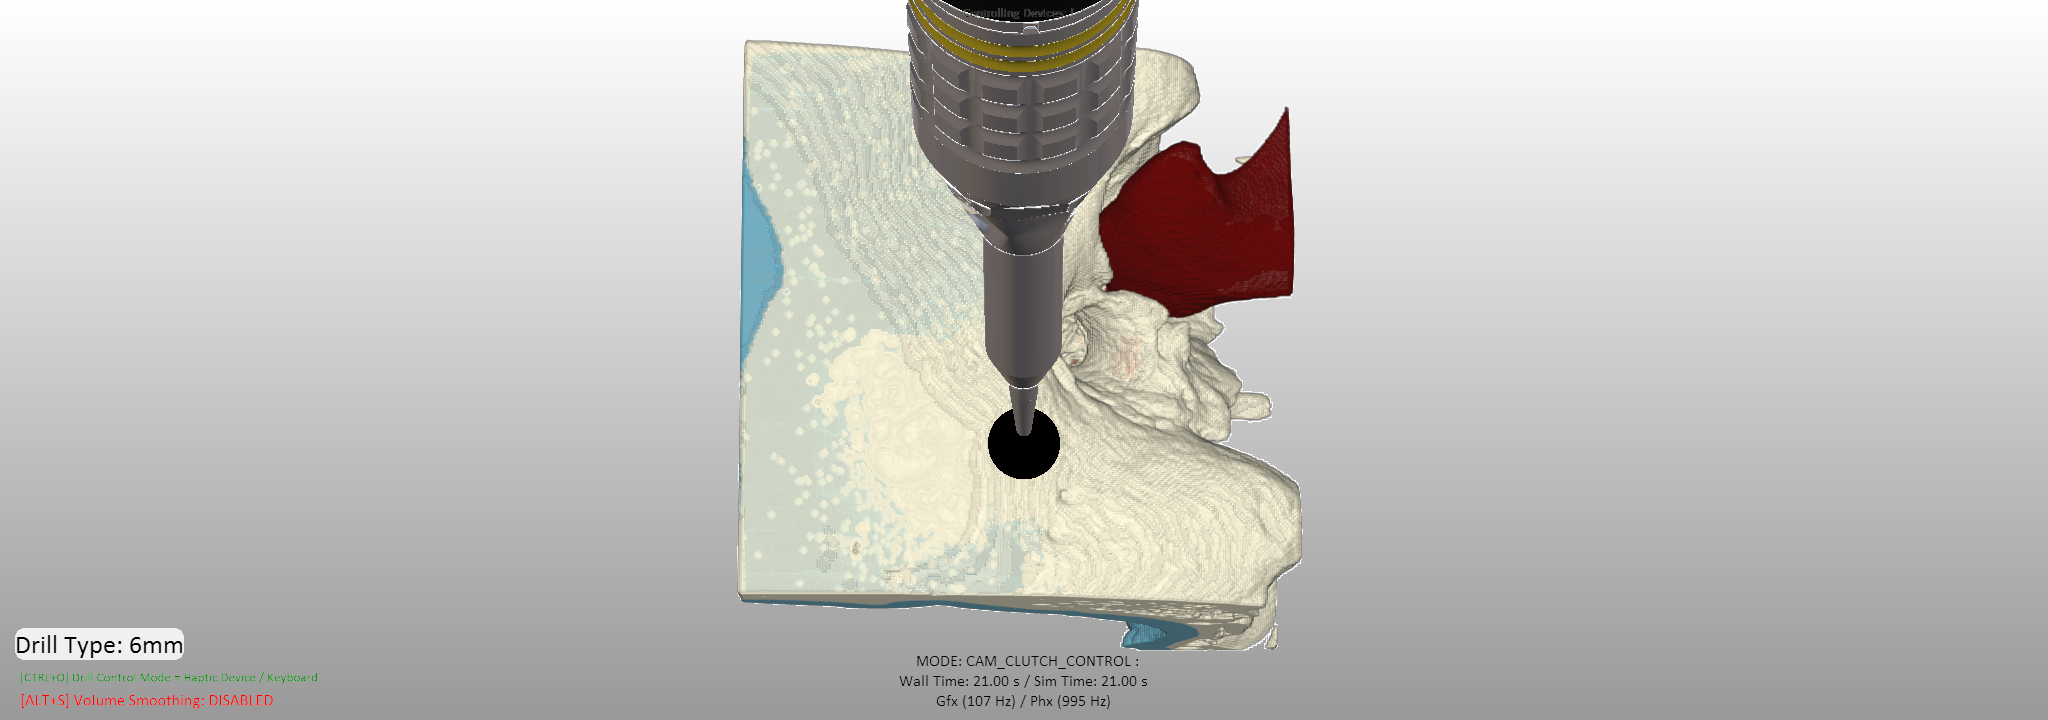
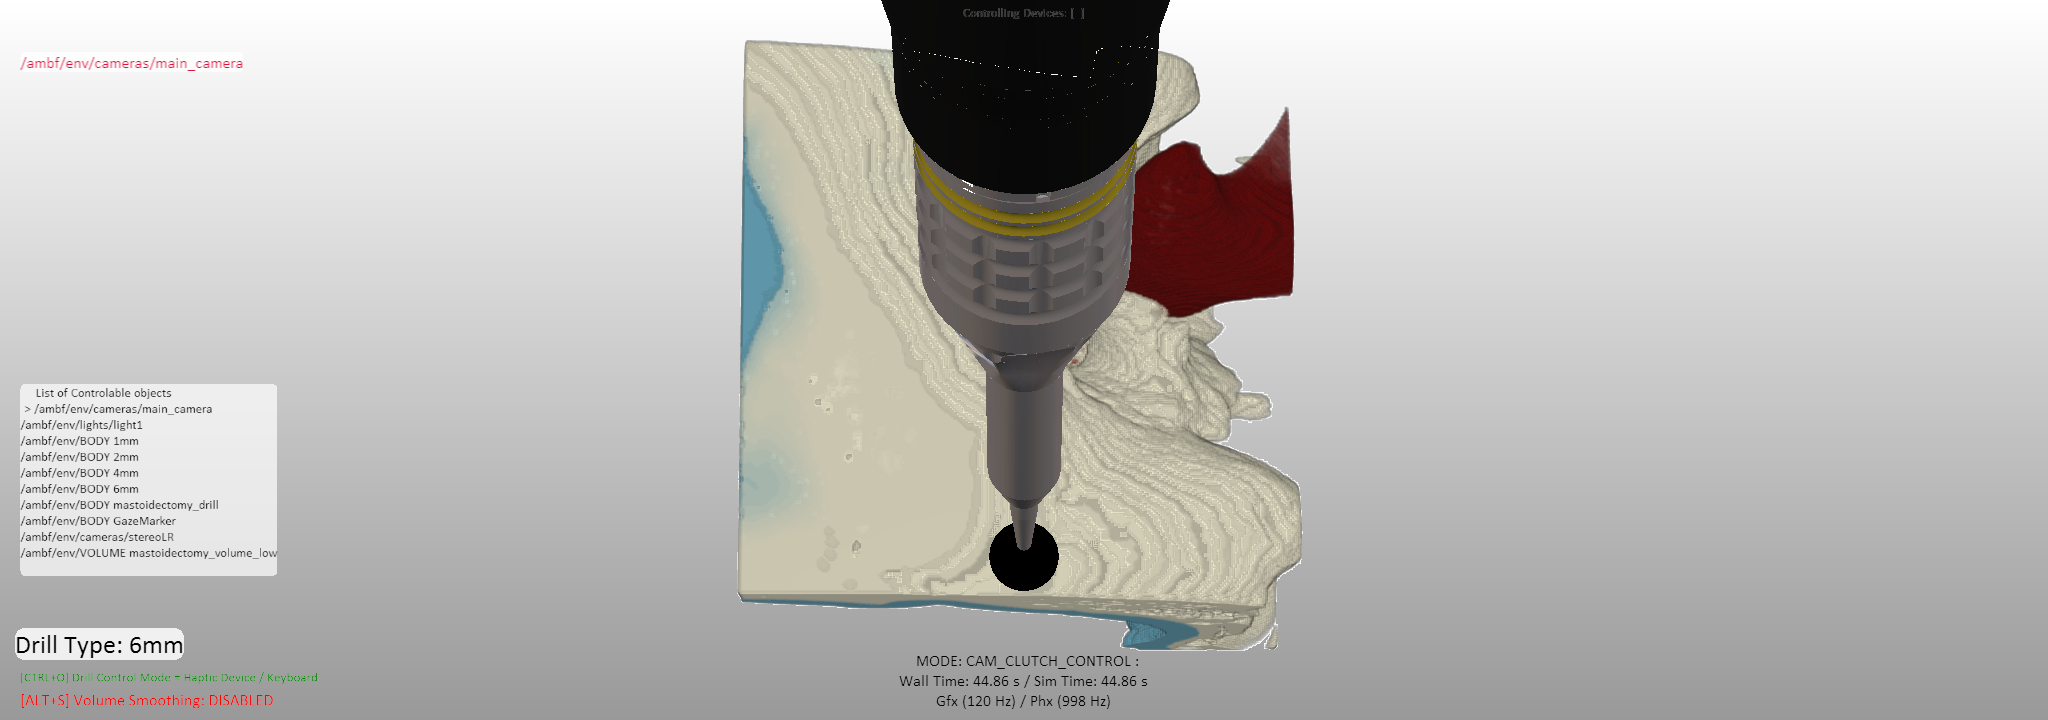
Improvements to data recording, skip synchroniztaion if only one topic

diff --git a/scripts/data_record_updated.py b/scripts/data_record_updated.py
@@ -384,51 +384,118 @@ def create_and_store_dataset(group, key, data, compression="gzip"):
         log.log(logging.INFO, (key, group[key].shape))
 
 
+# def write_voxel_data(collisions):
+#     """
+#     Process and write voxel data to HDF5.
+    
+#     :param collisions: Dictionary containing voxel-related data.
+#     :return: None
+#     """
+#     voxel_idx, voxel_color = [], []
+
+#     try:
+#         assert len(collisions["voxel_color"]) == len(collisions["voxel_removed"]) == len(collisions["voxel_time_stamp"]), \
+#             "Dimension mismatch in voxel data"
+#     except AssertionError:
+#         print("Voxel data dimension mismatch:", collisions)
+#         raise
+
+#     for idx in range(len(collisions["voxel_time_stamp"])):
+#         num_removed = collisions["voxel_removed"][idx].shape[0]
+#         if num_removed > 0:
+#             idx_column = np.ones((num_removed, 1)) * idx
+#             voxel_idx.append(np.hstack((idx_column, collisions["voxel_removed"][idx])))
+#             voxel_color.append(np.hstack((idx_column, collisions["voxel_color"][idx])))
+
+#     # Combine the voxel data and write it to the HDF5 file
+#     try:
+#         voxel_idx = np.vstack(voxel_idx)
+#         voxel_color = np.vstack(voxel_color)
+#         voxel_data = {
+#             "voxel_time_stamp": collisions["voxel_time_stamp"],
+#             "voxel_removed": voxel_idx,
+#             "voxel_color": voxel_color,
+#         }
+#         # Create voxels_removed group under physics_data/intermittent_data
+#         voxels_group = f["physics_data/intermittent_data"].create_group("voxels_removed")
+#         for key, value in voxel_data.items():
+#             print(f"key {key}")
+#             voxels_group.create_dataset(key, data=value, compression="gzip")
+#             log.log(logging.INFO, (key, voxels_group[key].shape))
+#             collisions[key] = []  # Reset to free memory
+#         voxels_group.create_dataset("README", data = "voxels_removed contains a group of voxels (Gv) removed. \n"
+#                                            "The voxel_time_stamp contains the time that the Gv was removed. The voxels_removed contains the voxels that comprise the Gv. \n"
+#                                            "The voxel_color contains the color of voxels that comprise the Gv. \n")
+#     except Exception as e:
+#         print("INFO! No voxels removed in this batch due to exception:", str(e))
+
 def write_voxel_data(collisions):
     """
-    Process and write voxel data to HDF5.
+    Process and write voxel data to an HDF5 file in a thread-safe manner.
+
+    This function collects voxel removal and color information from a batch
+    of collisions, verifies data consistency, and writes it under 
+    'physics_data/intermittent_data/voxels_removed' in the HDF5 file. 
+    Thread safety is ensured using a global lock `voxel_data_lock`.
+
+    :param collisions: Dictionary containing voxel-related data with keys:
+        - "voxel_removed": List of numpy arrays of removed voxel coordinates.
+        - "voxel_color": List of numpy arrays of voxel colors corresponding to removed voxels.
+        - "voxel_time_stamp": List of timestamps for when voxels were removed.
+    :return: None. Data is written directly to the HDF5 file.
     
-    :param collisions: Dictionary containing voxel-related data.
-    :return: None
+    Notes:
+        - If the dimension of any of the voxel arrays does not match, the batch is skipped.
+        - After writing, the original voxel lists in `collisions` are cleared to free memory.
+        - If no voxels are removed in the batch, nothing is written.
     """
-    voxel_idx, voxel_color = [], []
-
+    global voxel_data_lock
+    voxel_data_lock.acquire()
     try:
-        assert len(collisions["voxel_color"]) == len(collisions["voxel_removed"]) == len(collisions["voxel_time_stamp"]), \
-            "Dimension mismatch in voxel data"
-    except AssertionError:
-        print("Voxel data dimension mismatch:", collisions)
-        raise
+        voxel_idx, voxel_color = [], []
 
-    for idx in range(len(collisions["voxel_time_stamp"])):
-        num_removed = collisions["voxel_removed"][idx].shape[0]
-        if num_removed > 0:
-            idx_column = np.ones((num_removed, 1)) * idx
-            voxel_idx.append(np.hstack((idx_column, collisions["voxel_removed"][idx])))
-            voxel_color.append(np.hstack((idx_column, collisions["voxel_color"][idx])))
+        # Ensure all required keys exist in the collisions dictionary
+        if not all(k in collisions for k in ["voxel_removed", "voxel_color", "voxel_time_stamp"]):
+            return
 
-    # Combine the voxel data and write it to the HDF5 file
-    try:
-        voxel_idx = np.vstack(voxel_idx)
-        voxel_color = np.vstack(voxel_color)
-        voxel_data = {
-            "voxel_time_stamp": collisions["voxel_time_stamp"],
-            "voxel_removed": voxel_idx,
-            "voxel_color": voxel_color,
-        }
-        # Create voxels_removed group under physics_data/intermittent_data
-        voxels_group = f["physics_data/intermittent_data"].create_group("voxels_removed")
-        for key, value in voxel_data.items():
-            print(f"key {key}")
-            voxels_group.create_dataset(key, data=value, compression="gzip")
-            log.log(logging.INFO, (key, voxels_group[key].shape))
-            collisions[key] = []  # Reset to free memory
-        voxels_group.create_dataset("README", data = "voxels_removed contains a group of voxels (Gv) removed. \n"
-                                           "The voxel_time_stamp contains the time that the Gv was removed. The voxels_removed contains the voxels that comprise the Gv. \n"
-                                           "The voxel_color contains the color of voxels that comprise the Gv. \n")
-    except Exception as e:
-        print("INFO! No voxels removed in this batch due to exception:", str(e))
+        # Validate dimensions
+        try:
+            assert len(collisions["voxel_color"]) == len(collisions["voxel_removed"]) == len(collisions["voxel_time_stamp"]), \
+                "Dimension mismatch in voxel data"
+        except AssertionError:
+            print("Voxel data dimension mismatch:", collisions)
+            return  # Skip writing this batch
 
+        # Process each time step in the batch
+        for idx in range(len(collisions["voxel_time_stamp"])):
+            num_removed = collisions["voxel_removed"][idx].shape[0]
+            if num_removed > 0:
+                idx_column = np.ones((num_removed, 1)) * idx
+                voxel_idx.append(np.hstack((idx_column, collisions["voxel_removed"][idx])))
+                voxel_color.append(np.hstack((idx_column, collisions["voxel_color"][idx])))
+
+        # Write processed voxel data to HDF5 if any were removed
+        if voxel_idx:
+            voxel_idx = np.vstack(voxel_idx)
+            voxel_color = np.vstack(voxel_color)
+            voxel_data = {
+                "voxel_time_stamp": collisions["voxel_time_stamp"],
+                "voxel_removed": voxel_idx,
+                "voxel_color": voxel_color,
+            }
+            voxels_group = f["physics_data/intermittent_data"].create_group("voxels_removed")
+            for key, value in voxel_data.items():
+                voxels_group.create_dataset(key, data=value, compression="gzip")
+                collisions[key] = []  # Clear memory for next batch
+            voxels_group.create_dataset(
+                "README",
+                data="voxels_removed contains a group of voxels removed. "
+                     "voxel_time_stamp contains the removal times, "
+                     "voxel_removed contains voxel coordinates, "
+                     "voxel_color contains the colors of removed voxels."
+            )
+    finally:
+        voxel_data_lock.release()
 
 # CHANGED, NEW FUNCTION
 def write_high_frequency_pose_data(high_freq_pose_data):
@@ -778,12 +845,23 @@ def main(args):
     print("Synchronous? : ", args.sync)
     # NOTE: don't set queue size to a large number (e.g. 1000).
     # Otherwise, the time taken to compute synchronization becomes very long and no more message will be spit out.
-    if args.sync is False:
-        ats = message_filters.ApproximateTimeSynchronizer(subscribers, queue_size=50, slop=0.01)
+    if len(subscribers) > 1:
+        if args.sync:
+            ats = TimeSynchronizer(subscribers, queue_size=50)
+        else:
+            ats = message_filters.ApproximateTimeSynchronizer(subscribers, queue_size=50, slop=0.01)
         ats.registerCallback(callback, container.keys())
     else:
-        ats = TimeSynchronizer(subscribers, queue_size=50)
-        ats.registerCallback(callback, container.keys())
+        # Only 1 subscriber — no sync needed, just attach callback
+        for sub in subscribers:
+            sub.registerCallback(lambda msg, key=list(container.keys())[0]: callback(msg, {key: msg}))
+
+    #if args.sync is False:
+    #    ats = message_filters.ApproximateTimeSynchronizer(subscribers, queue_size=50, slop=0.01)
+    #    ats.registerCallback(callback, container.keys())
+    #else:
+    #    ats = TimeSynchronizer(subscribers, queue_size=50)
+    #    ats.registerCallback(callback, container.keys())
 
     # separate thread for writing to hdf5 to release memory
     # rospy.Timer(rospy.Duration(0, 500000), timer_callback)  # set to 2Khz such that we don't miss pose data

diff --git a/plugin/volumetric_drilling/video_recording_controller.cpp b/plugin/volumetric_drilling/video_recording_controller.cpp
@@ -76,6 +76,7 @@ int VideoRecordingController::init(const afWorldPtr a_afWorld, const string& sta
 
     m_worldPtr = a_afWorld;
     m_camera = m_worldPtr->getCameras()[0];
+    // m_volume = m_worldPtr->getVolumes()[0];
 
     // Copy resolution from the camera
     m_width = m_camera->m_width;
@@ -218,7 +219,10 @@ void VideoRecordingController::mouseScrollUpdate(GLFWwindow *a_window, double x_
 void VideoRecordingController::update(const double current_timestamp)
 {
     try {
+        // m_volume->getShaderProgram()->setUniformf("uAlphaThreshold", 0.2);
+        // m_volume->getShaderProgram()->setUniformi("uEnableDVR", 0);
         m_frameBuffer->renderView();
+        // m_volume->getShaderProgram()->setUniformi("uEnableDVR", 1);
         m_frameBuffer->copyImageBuffer(m_image);
 
         // Write the frame data to FFmpeg

diff --git a/plugin/volumetric_drilling/volumetric_drilling.cpp b/plugin/volumetric_drilling/volumetric_drilling.cpp
@@ -233,6 +233,8 @@ void afVolmetricDrillingPlugin::graphicsUpdate(){
     }
     m_volumeObject->getShaderProgram()->setUniformi("uMatcapMap", C_TU_AO);
     m_volumeObject->getShaderProgram()->setUniformi("shadowMap", C_TU_SHADOWMAP);
+    m_volumeObject->getShaderProgram()->setUniformf("uAlphaThreshold", 0.85);
+    m_volumeObject->getShaderProgram()->setUniformi("uEnableDVR", 1);
 
     static double last_time = 0.0;
     double dt = m_worldPtr->getWallTime() - last_time;

diff --git a/plugin/volumetric_drilling/video_recording_controller.h b/plugin/volumetric_drilling/video_recording_controller.h
@@ -70,6 +70,7 @@ protected:
     string m_saveDirectory;               // Directory to save the video
     string m_timestamps_filename;         // Filename for world timestamps.npy file
     vector<double> m_recorded_timestamps; // Recorded time stamps
+    // afVolumePtr m_volume;
 };
 
 #endif
